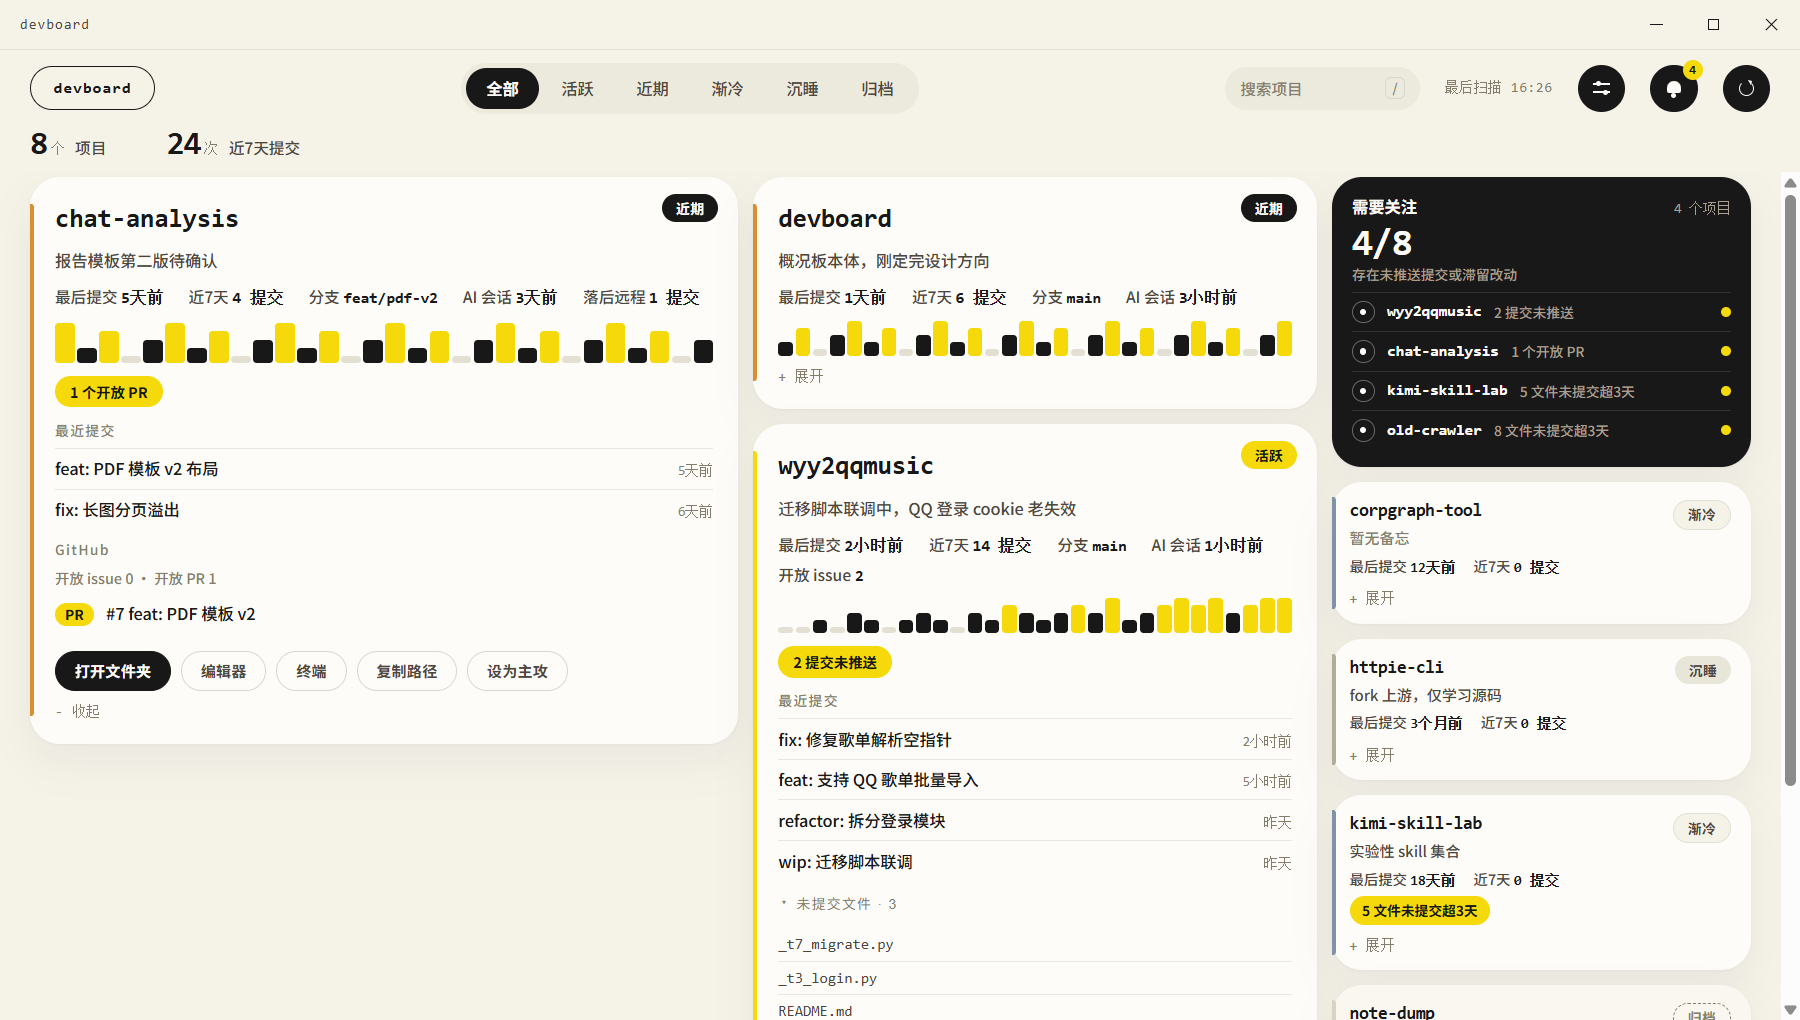
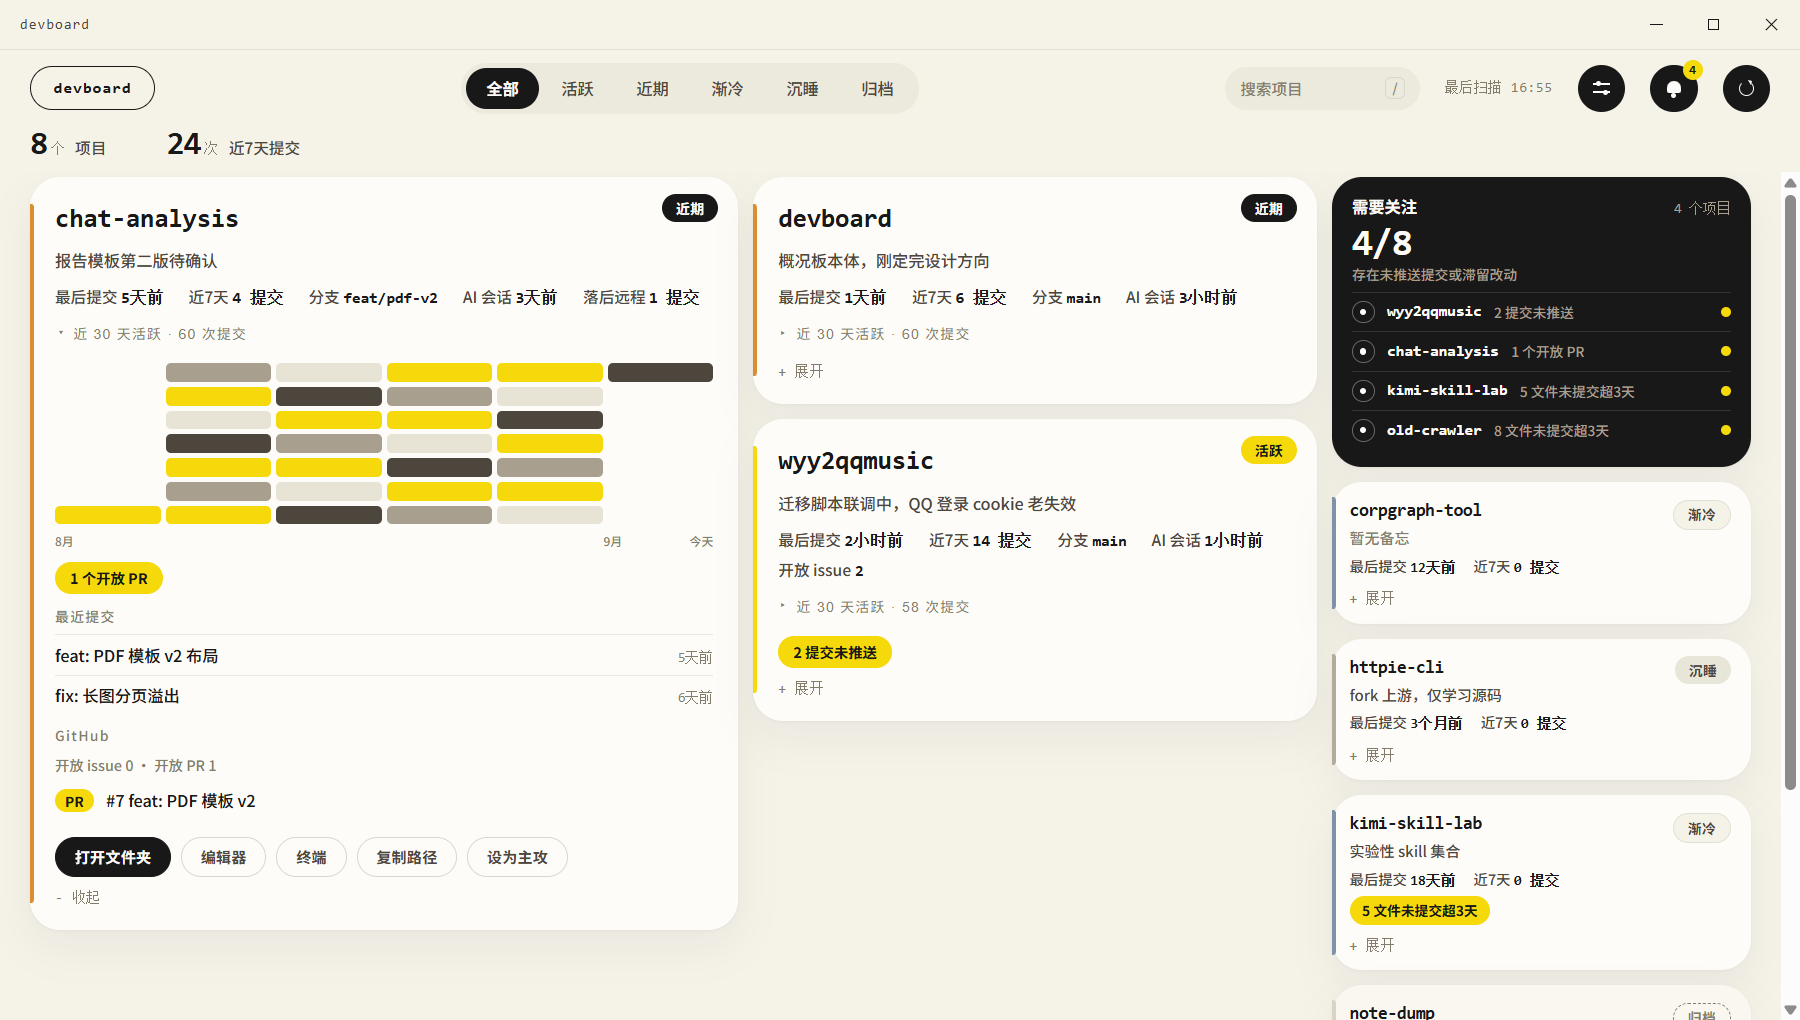
[feat] 活跃条改为月历热力图：默认收起，点击展开，占满卡宽
close #1：原圆点条语义不明。改为 GitHub 风格周日×周列热力图，
仅最近 30 天；卡片上默认收起为「近 30 天活跃 · N 次提交」摘要行，
点击展开；格子四档配色（灰/暖灰/墨黑/明黄），悬停显示
「M月D日 · N 次提交」，底部轴标注月份切换与「今天」。

diff --git a/src/renderer/app.js b/src/renderer/app.js
@@ -98,17 +98,64 @@
   function canDrag() { return state.band === 'all' && !state.query; }
 
   /* ---------- 卡片 ---------- */
-  function renderBars(parent, activity, mini) {
-    var bars = el('div', 'bars' + (mini ? ' mini' : ''));
-    var heights = [18, 38, 58, 80, 100]; // 零值浅灰短柱；1-2 近黑分级；3+ 明黄
-    (activity || []).forEach(function (n) {
-      var bar = document.createElement('i');
-      bar.style.height = heights[Math.min(n, 4)] + '%';
-      if (n === 0) bar.className = 'z';
-      else if (n >= 3) bar.className = 'hi';
-      bars.appendChild(bar);
+  // 近 30 天活跃：GitHub 风格月历热力图，默认收起，点击展开（issue #1）
+  function renderActivity(parent, p) {
+    var activity = p.activity30 || [];
+    var total = activity.reduce(function (s, n) { return s + n; }, 0);
+    var tog = el('button', 'sec-title dirty-toggle');
+    tog.type = 'button';
+    tog.appendChild(el('span', 'caret', '▸'));
+    tog.appendChild(document.createTextNode('近 30 天活跃 · ' + total + ' 次提交'));
+    var wrap = el('div', 'dirty-wrap');
+    var din = el('div', 'dirty-in');
+    din.appendChild(buildHeatmap(activity));
+    wrap.appendChild(din);
+    tog.addEventListener('click', function (e) {
+      e.stopPropagation();
+      var open = wrap.classList.toggle('open');
+      tog.classList.toggle('open', open);
     });
-    parent.appendChild(bars);
+    parent.appendChild(tog);
+    parent.appendChild(wrap);
+  }
+
+  // activity[29] = 今天；周一在最上一行，按周列 × 周日行落位
+  function buildHeatmap(activity) {
+    var DAY = 86400000;
+    var box = el('div', 'heat');
+    var gridEl = el('div', 'heat-grid');
+    var today = new Date();
+    today.setHours(0, 0, 0, 0);
+    var first = today.getTime() - 29 * DAY;
+    var lead = (new Date(first).getDay() + 6) % 7; // 窗口第一天距周一的偏移
+    var b;
+    for (b = 0; b < lead; b++) gridEl.appendChild(el('i', 'cell blank'));
+    activity.forEach(function (n, i) {
+      var d = new Date(first + i * DAY);
+      var cell = el('i', 'cell l' + (n === 0 ? 0 : n >= 3 ? 3 : n));
+      cell.title = (d.getMonth() + 1) + '月' + d.getDate() + '日 · ' + (n ? n + ' 次提交' : '无提交');
+      gridEl.appendChild(cell);
+    });
+    box.appendChild(gridEl);
+
+    // 底部轴：月份切换列标注「X 月」，右端标注「今天」（按列百分比定位，随卡片宽度伸缩）
+    var cols = Math.ceil((lead + activity.length) / 7);
+    var axis = el('div', 'heat-axis');
+    var prevMonth = -1;
+    for (var cix = 0; cix < cols; cix++) {
+      var dayIdx = Math.max(0, cix * 7 - lead);
+      if (dayIdx >= activity.length) break;
+      var dd = new Date(first + dayIdx * DAY);
+      if (dd.getMonth() !== prevMonth) {
+        var m = el('span', 'mon', (dd.getMonth() + 1) + '月');
+        m.style.left = (cix / cols * 100) + '%';
+        axis.appendChild(m);
+        prevMonth = dd.getMonth();
+      }
+    }
+    axis.appendChild(el('span', 'today', '今天'));
+    box.appendChild(axis);
+    return box;
   }
 
   function renderWarns(parent, p) {
@@ -357,7 +404,7 @@
     }
     card.appendChild(kvRow);
 
-    if (kind !== 'compact') renderBars(card, p.activity30, kind === 'mid');
+    if (kind !== 'compact') renderActivity(card, p);
     renderWarns(card, p);
 
     renderDetail(card, p);

diff --git a/src/renderer/styles.css b/src/renderer/styles.css
@@ -270,17 +270,20 @@ body{
 }
 .compact .kv-row{margin-top:4px;gap:2px 14px;font-size:11.5px}
 
-/* 30 天柱状活动图：零值也有明确浅灰短柱，活跃柱按提交数分级 */
-.bars{
-  display:flex;align-items:flex-end;gap:2px;height:32px;margin-top:10px;
+/* 近 30 天活跃热力图：月历格（周日行 × 周列），默认收起（issue #1） */
+.heat{margin-top:10px}
+.heat-grid{
+  display:grid;grid-template-rows:repeat(7, 15px);
+  grid-auto-flow:column;grid-auto-columns:1fr;gap:4px;width:100%;
 }
-.bars.mini{height:28px;margin-top:8px}
-.bars i{
-  flex:1;border-radius:3px;background:var(--tile);min-height:5px;
-  display:block;
-}
-.bars i.z{background:#e3dfd2;min-height:5px}
-.bars i.hi{background:var(--accent)}
+.heat-grid .cell{border-radius:4px;background:#e7e3d5}
+.heat-grid .cell.blank{visibility:hidden}
+.heat-grid .cell.l1{background:#a89f8e}
+.heat-grid .cell.l2{background:#4d463c}
+.heat-grid .cell.l3{background:var(--accent)}
+.heat-axis{position:relative;height:14px;margin-top:6px}
+.heat-axis .mon{position:absolute;top:0;font-size:9.5px;color:var(--ink-3);white-space:nowrap}
+.heat-axis .today{position:absolute;right:0;top:0;font-size:9.5px;color:var(--ink-3)}
 
 /* 警示 pill（hover 显示消音 ×） */
 .warns{display:flex;flex-wrap:wrap;gap:8px;margin-top:10px}
